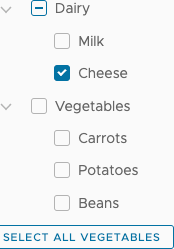
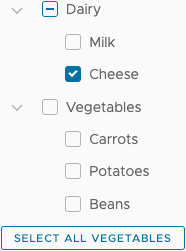
docs(tree-view): fixes image / layout issues for checkbox tree demo

diff --git a/apps/website/components/tree-view/README.md b/apps/website/components/tree-view/README.md
@@ -215,13 +215,21 @@ Use the `.clr-treenode-link` class to style content inside of a Tree Node as cli
 
 ### Checkbox Tree
 
-<ClrRow>
+Use checkbox when nodes of the tree need to be selected or unselected by users. There are three parts that are needed to implement a [ClrTree](/components/tree-view/api.html#clrtree) with checkbox controls.
+
+1. Data structured in a tree hierarchy
+1. The correct declaration on the [ClrTreeNode](/components/tree-view/api.html#clrtree)'s that need to be selectable
+1. A ClrSelectedState for each node that is selectable
+
+<ClrRow class="custom-block">
 <ClrCol>
-<ClrImage height="500" title="Checkbox Tree" src="/images/components/tree-view/checkbox-tree-demo.png" />
+<ClrImage title="Checkbox Tree" src="/images/components/tree-view/checkbox-tree-demo.png" />
 </ClrCol>
 <ClrCol>
+
 #### Checkbox JSON
-<doc-demo src="/demos/tree-view/checkbox-json.html" demo="/demos/tree-view/empty-css.html" toggle="false"/>
+
+<doc-demo src="/demos/tree-view/checkbox.json" demo="/demos/tree-view/empty-css.html" toggle="false" />
 </ClrCol>
 </ClrRow>
 
